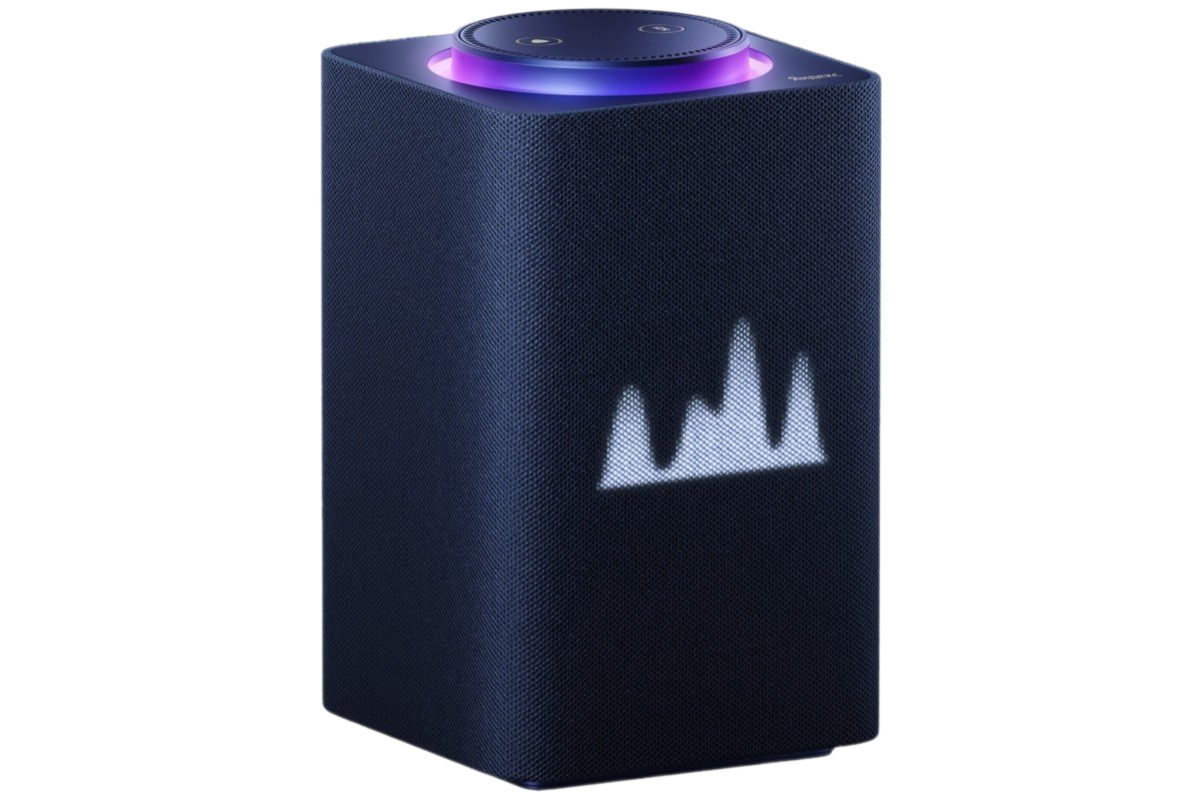
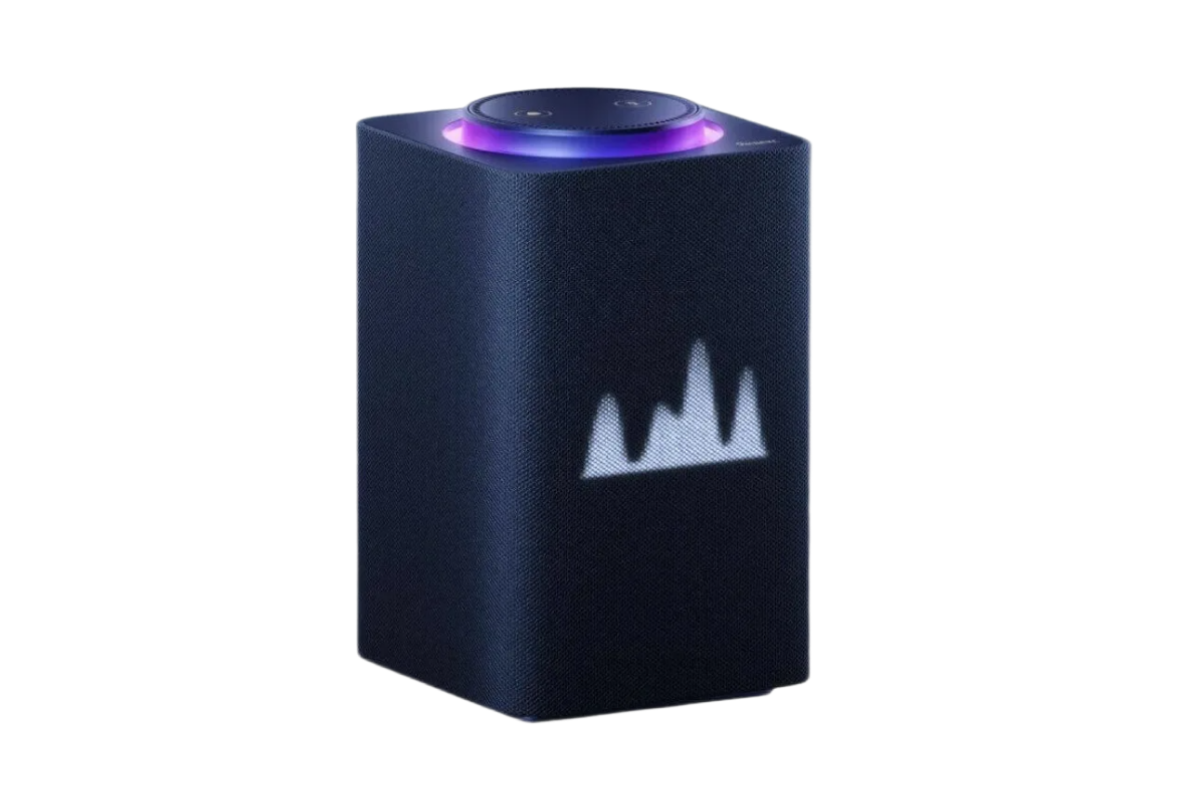
slider card update

Changed region(s): [[0.2467, 0.0, 0.74, 0.9925]]

diff --git a/src/components/CompMoreCard/MoreCard/MoreCard.tsx b/src/components/CompMoreCard/MoreCard/MoreCard.tsx
@@ -1,43 +1,71 @@
 import { MORECARD } from "../../../data/data"
 import { Link, useParams } from "react-router-dom"
 import logoutIcon from '../../../assets/img/logout.svg'
+import { Pagination } from 'swiper/modules'
+import { Swiper, SwiperSlide } from 'swiper/react';
 import './MoreCard.scss'
+import 'swiper/css'
+import 'swiper/css/pagination' 
+
 
 export const MoreCard = () => {
     const { id } = useParams()
 	const card = MORECARD.find(card => card.id === id)
+	//Slider
+	const pagination = {
+		clickable: true,
+		renderBullet: function (index:number, className:string) {
+			return '<span class="' + className + '">' + (index + 1) + '</span>'
+		},
+	}
 
     return (
 			<div className='more-wrapper'>
 				<div className='container'>
 					<Link to='/' className='more-card__logout'>
-					  <div className="logout-wrapper">
-						<img className='logout-card__img' src={logoutIcon} alt='' />
-					  </div>
-					  <p className="logout-text">
-						Назад
-					  </p>
+						<div className='logout-wrapper'>
+							<img className='logout-card__img' src={logoutIcon} alt='' />
+						</div>
+						<p className='logout-text'>Назад</p>
 					</Link>
 					<div className='more-card__info'>
 						<div className='more-card__img'>
-							<img
-								className={`more-card-img__inner 
-								${id === '3' && 'modify-card'}
-								${id === '2' && 'modify-padding'}`}
-								src={card?.img}
-								alt=''
-							/>
+							<Swiper
+								pagination={pagination}
+								modules={[Pagination]}
+								className='mySwiper'
+							>
+								<SwiperSlide>
+									<img
+										className={`more-card-img__inner 
+										${id === '3' && 'modify-card'}
+										${id === '2' && 'modify-padding'}`}
+										src={card?.img}
+										alt=''
+									/>
+								</SwiperSlide>
+								<SwiperSlide>
+									<img src={card?.imgTwo} alt='' />
+								</SwiperSlide>
+							</Swiper>
 						</div>
-						<div className='more-card__right'>
+						<div className='more-card__midle'>
 							<div className='more-card__title'>
 								<h2>{card?.title}</h2>
 							</div>
 							<div className='more-card__description'>
 								<p>{card?.description}</p>
 							</div>
+						</div>
+						<div className='more-card__right'>
 							<div className='more-card__price'>
-								<button className='more-card__btn'>
-									Добавить в корзину за {card?.price}р
+								<h3 className='more-card-price__inner'>
+									{card?.price}р
+								</h3>
+							</div>
+							<div className='more-card__btn'>
+								<button className='more-card-btn__inner'>
+									Добавить в корзину за
 								</button>
 							</div>
 						</div>

diff --git a/src/data/data.ts b/src/data/data.ts
@@ -1,15 +1,19 @@
 import columnOne from '../assets/img/yandex_kolonka.png'
+import columnTwo from '../assets/img/yandex-kolonka.png'
 import columnThree from '../assets/img/yandex-krestina.png'
 import columnFour from '../assets/img/yandex-krestina-2.png'
 import dryerOne from '../assets/img/xiaomi-sushilka-1.png'
+import dryerTwo from '../assets/img/xiaomi-sushilka-2.png'
 import termoOne from '../assets/img/termo-honeywell.png'
 import termoTwo from '../assets/img/xiaomi-termo-1.png'
 import videoEaseOne from '../assets/img/video-ease-1.png'
+import videoEaseTwo from '../assets/img/video-ease-2.png'
 import cameraOne from '../assets/img/xiaomi-camera.png'
 import scaleIcon from '../assets/img/Smart-Scale.png'
 import unitazIcon from '../assets/img/unitaz.png'
 import vacuumIcon from '../assets/img/vacuum-cleaner.png'
 import deviceMoove from '../assets/img/device-moov.png'
+
 
 
 export type CardsServer = {
@@ -147,6 +151,7 @@ export const MORECARD = [
 			'Ваш личный помощник с невероятными возможностями! Задавайте вопросы, генерируйте тексты, управляйте умным домом – всё в одном устройстве. Больше, чем просто голосовой помощник – это ваш интеллектуальный компаньон.',
 		price: 6500,
 		img: columnOne,
+		imgTwo: columnTwo,
 	},
 
 	{
@@ -192,6 +197,7 @@ export const MORECARD = [
 			'Стильно и практично. Сушите бельё быстро и удобно, экономя место. Идеальное решение для небольших квартир.',
 		price: 24000,
 		img: dryerOne,
+		imgTwo: dryerTwo,
 	},
 
 	{
@@ -201,6 +207,7 @@ export const MORECARD = [
 			'Забудьте о нежданных гостях! Смотрите, кто у вашей двери, даже если вас нет дома. Получайте уведомления на телефон и общайтесь с гостями удаленно.',
 		price: 8400,
 		img: videoEaseOne,
+		imgTwo: videoEaseTwo,
 	},
 
 	{

diff --git a/src/components/CompMoreCard/MoreCard/MoreCard.scss b/src/components/CompMoreCard/MoreCard/MoreCard.scss
@@ -6,35 +6,41 @@
 
 .more-card__img {
     background: $color-card;
-    @include flex-center;
+    @include flex-center; 
     width: 630px;
     height: 450px;
     border-radius: 30px;
 }
 
 .more-card__info {
-    @include flex-center;
-    gap: 100px;
+    display: flex;
+    // gap: 35px;
 }
 
 .more-card__title {
     font-family: 'Montserrat-B';
-    font-size: 23px;
+    font-size: 18px;
 }
 
 .more-card__right {
-    @include flex-center;
+    display: flex;
+    height: 200px;
     flex-direction: column;
     gap: 50px;
+    background: #fff;
+    box-shadow: 0 0 10px #00000047;
+    border-radius: 10px;
+    padding: 40px 50px 40px 50px;
 }
 
 .more-card__description {
     font-family: 'Montserrat-M';
     line-height: 2;
     max-width: 540px;
+    text-align: center;
 }
 
-.more-card__btn {
+.more-card-btn__inner {
     @include button-reset;
     width: 290px;
     height: 55px;
@@ -43,6 +49,13 @@
     cursor: pointer;
     color: $color-white;
     background: $main-color;
+}
+
+.more-card__midle {
+    display: flex;
+    flex-direction: column;
+    align-items: center;
+    gap: 30px;
 }
 
 .more-card__logout {
@@ -67,9 +80,50 @@
 }
 
 .modify-card {
-    width: 500px;
+    width: 550px !important;
 }
 
-.modify-padding {
-    padding-top: 51px;
+// .modify-padding {
+//     padding-top: 51px;
+// }
+
+//Swiper
+.swiper-wrapper {
+    height: 370px !important;
+}
+
+.swiper {
+  width: 300px;
+  height: 400px;
+}
+
+.swiper-slide {
+  text-align: center;
+  font-size: 18px;
+  display: flex !important;
+  justify-content: center !important;
+  align-items: center !important;
+}
+
+.swiper-slide img {
+  display: block;
+  width: 93%;
+  object-fit: cover;
+}
+
+.swiper-pagination-bullet {
+  width: 32px !important;
+  height: 32px !important;
+  text-align: center;
+  line-height: 32px;
+  font-size: 18px;
+  color: #fff !important;
+  opacity: 1;
+  background: rgba(0, 0, 0, 0.2);
+  font-family: 'Montserrat-M';
+}
+
+.swiper-pagination-bullet-active {
+  color: #fff;
+  background: $main-color !important;
 }
